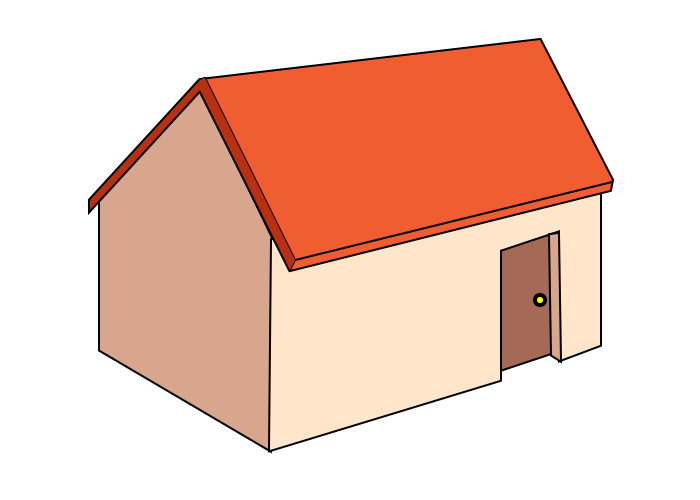
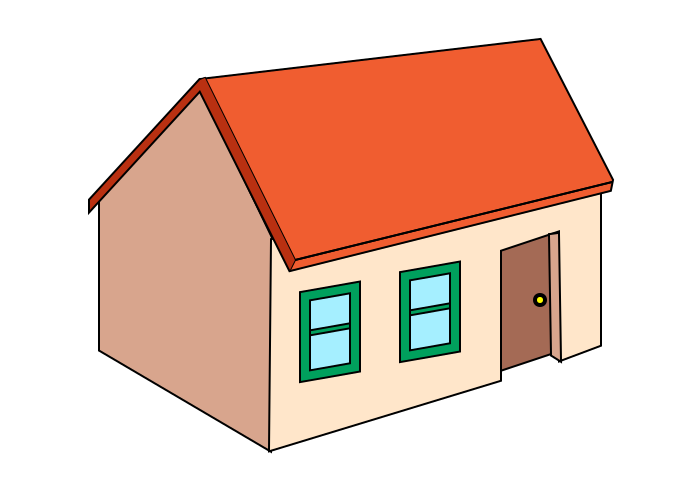
added windows

Changed region(s): [[0.42, 0.54, 0.54, 0.78], [0.57, 0.51, 0.66, 0.75], [0.72, 0.39, 0.75, 0.42]]

diff --git a/.venv/main.py b/.venv/main.py
@@ -1,4 +1,5 @@
 import cairo
+import math
 
 # Define constants for the surface size
 WIDTH, HEIGHT = 700, 500
@@ -126,6 +127,45 @@ context.line_to(612, 182)
 context.set_source_rgb(0, 0, 0)  # Black for stroke
 context.set_line_width(2)
 context.stroke_preserve()
+
+
+# Define a function to draw a slanted window
+def draw_window(context, x_offset, y_offset, angle):
+    # Apply 10-degree slant transformation
+    angle = math.radians(angle)
+    matrix = cairo.Matrix(1, math.tan(angle), 0, 1, x_offset, y_offset)
+    context.transform(matrix)
+
+    # Draw the outer green rectangle
+    context.rectangle(300, 345, 60, 90)  # x=300, y=345, width=60, height=90
+    set_rgb_color(context, 0, 160, 93)  # Green fill
+    context.fill_preserve()
+    context.set_source_rgb(0, 0, 0)  # Black stroke
+    context.stroke()
+
+    # Draw the inner blue rectangle
+    context.rectangle(310, 355, 40, 70)  # x=310, y=355, width=40, height=70
+    set_rgb_color(context, 165, 239, 255)  # Blue fill
+    context.fill_preserve()
+    context.set_source_rgb(0, 0, 0)  # Black stroke
+    context.stroke()
+
+    # Draw the green horizontal rectangle (line) in the middle of the blue rectangle
+    context.rectangle(310, 385, 40, 5)  # x=310, y=385, width=40, height=5
+    set_rgb_color(context, 0, 160, 93)  # Green fill
+    context.fill_preserve()
+    context.set_source_rgb(0, 0, 0)  # Black stroke
+    context.stroke()
+
+# Draw the first window
+draw_window(context, x_offset=0, y_offset=0, angle=-10)
+
+# Reset transformation matrix for the next window
+context.identity_matrix()
+
+# Draw the second window 50 pixels next to the first one
+draw_window(context, x_offset=100, y_offset=-20, angle=-10)
+
 
 
 # Save the result to a file
